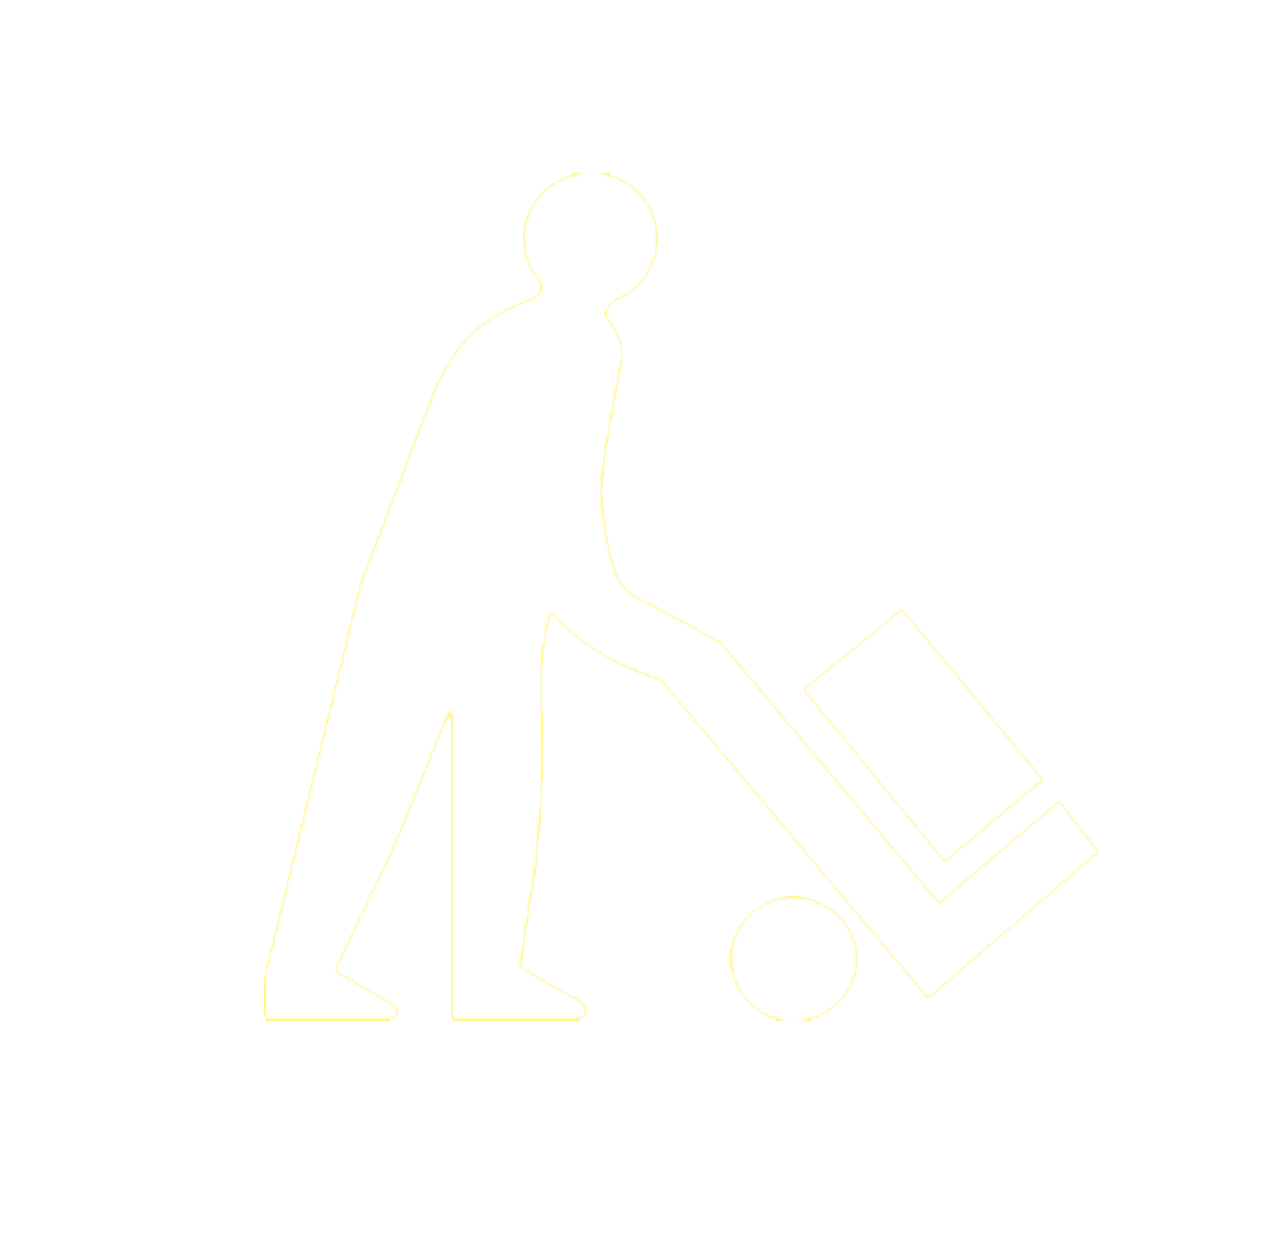
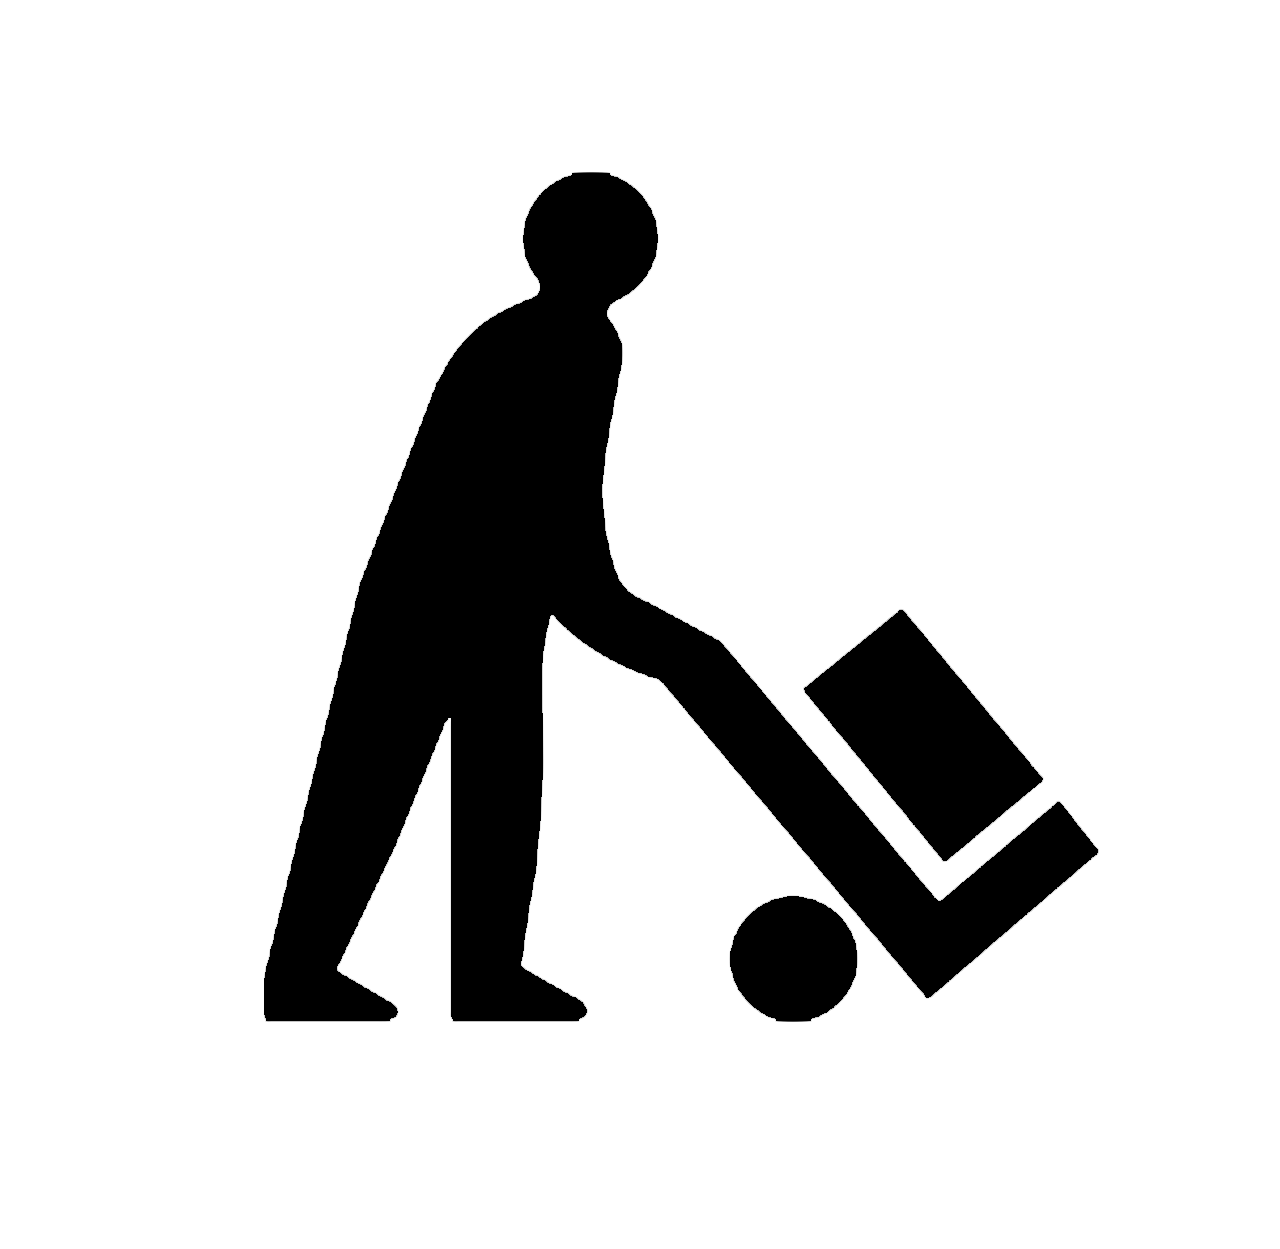
Slider added and offering page updated

Changed region(s): [[0.1875, 0.1249, 0.875, 0.8431]]

diff --git a/html/css/offer.css b/html/css/offer.css
@@ -1,47 +1,61 @@
-.how-it-works-container {
-    width: 18%;
-    float: left;
-    margin: 1%;
+.offering-container {
+    position: relative;
     background: #e0e0e0;
     box-shadow: none;
 }
 
-.work-icon {
-    text-align: center;
-    font-size: 40px;
+.offering-icon img {
+    width: 100%;
 }
 
-.work-title {
+.offering-title {
     text-align: center;
+    color: #000;
+    margin-bottom: 25px;
 }
 
-.work-description {
+.offering-description {
     display: none;
 }
 
+.offering-icon {
+    padding: 10px;
+    margin: 25px;
+    margin-bottom: 0px;
+}
+.offering-icon.yellow-icon{
+    display: none;
+}
+.offering-container:hover .offering-icon.yellow-icon{
+    display: block;
+}
+.offering-container:hover .offering-icon.white-icon{
+    display: none;
+}
 
-.how-it-works-container:hover {
+.offering-container.active .offering-icon.yellow-icon{
+    display: none !important;
+}
+.offering-container.active .offering-icon.white-icon{
+    display: block !important;
+}
+
+.offering-container:hover {
     background: #000 !important;
     cursor: pointer;
     -webkit-box-shadow: 0 2px 2px 0 rgba(0,0,0,0.14), 0 1px 5px 0 rgba(0,0,0,0.12), 0 3px 1px -2px rgba(0,0,0,0.2);
     box-shadow: 0 2px 2px 0 rgba(0,0,0,0.14), 0 1px 5px 0 rgba(0,0,0,0.12), 0 3px 1px -2px rgba(0,0,0,0.2);
 }
-.how-it-works-container:hover .work-icon{
-	color:#feec00;
+
+.offering-container:hover .offering-title{
+    color:#fff;
 }
-.how-it-works-container:hover .work-title{
-	color:#fff;
-}
-.how-it-works-container.active .work-icon{
-	color:#000 !important;
-}
-.how-it-works-container.active .work-title{
-	color:#000 !important;
+.offering-container.active .offering-title{
+    color:#000;
 }
 
-.how-it-works-container.active{
-	background: #fff !important;
-    cursor: pointer;
+.offering-container.active {
+    background: #fff !important;
     -webkit-box-shadow: 0 2px 2px 0 rgba(0,0,0,0.14), 0 1px 5px 0 rgba(0,0,0,0.12), 0 3px 1px -2px rgba(0,0,0,0.2);
     box-shadow: 0 2px 2px 0 rgba(0,0,0,0.14), 0 1px 5px 0 rgba(0,0,0,0.12), 0 3px 1px -2px rgba(0,0,0,0.2);
 }
@@ -53,15 +67,24 @@ div#descriptionContainer {
     -webkit-box-shadow: 0 2px 2px 0 rgba(0,0,0,0.14), 0 1px 5px 0 rgba(0,0,0,0.12), 0 3px 1px -2px rgba(0,0,0,0.2);
     box-shadow: 0 2px 2px 0 rgba(0,0,0,0.14), 0 1px 5px 0 rgba(0,0,0,0.12), 0 3px 1px -2px rgba(0,0,0,0.2);
 }
-#descriptionContainer{
+.offering-container {
+    min-height: 416px;
+}
+
+.offering-container {
+    min-height: 245px !important;
+}
+
+div#descriptionContainer {
     display: none;
-    margin: 1% !important;
-    margin-top: -15px !important;
+    position: absolute;
+    top: 245px;
+    margin: 0px !important;
 }
 
 div#descriptionTitle {
     font-size: 22px;
-    font-weight: 300;
+    font-weight: bold;
     text-transform: uppercase;
 }
 
@@ -73,4 +96,6 @@ div#descriptionText {
     margin-top: 12px;
     color: #6b6a6a;
 }
+
+
 

diff --git a/html/js/offer.js b/html/js/offer.js
@@ -1,0 +1,10 @@
+$(function(){
+	$(".offering-container").on("click",function(){
+		$(".offering-container").removeClass("active");
+		$(this).addClass("active");
+
+		$("#descriptionContainer #descriptionText").html($(".offering-description",this).html());
+		$("#descriptionContainer #descriptionTitle").html($(".offering-title",this).html());
+		$("#descriptionContainer").show();
+	})
+});

diff --git a/application/views/offer.php b/application/views/offer.php
@@ -3,47 +3,58 @@
 	<div class="c-title">What we Offer</div>
 	<p class="c-paragraph">Labouradda is a unique platform that helps in connecting a Consumer to a labourer for Domestic or Commercial use. Just give a missed call at 088 088 088 88 and get a call back for cost and estimation. Explain your requirement to the labourer, then sit back and relax!</p>
 
-	<div class="row">
-		<div class="col m3 s12">
-			<div class="offer-box card-panel white hoverable">
-                <center>
-                    <img src="<?php echo base_url(); ?>html/images/cleaning and maintenance.png" class="img-responsive offering-image">
-                    <!-- <img src="images/about-01.jpg" class="img-responsive" alt=".."> -->
-                    <h4>CLEANING AND MAINTENANCE</h4>
-                    <div class="border"></div></center>
-                    <!-- <p>Duis aute irure dolor in reprehen derit in voluptate velit essecillum dolore eu fugiat nulla pariatur. Lorem reprehenderit</p> -->
-            </div>
-		</div>
 
-		<div class="col m3 s12">
-      <div class="offer-box card-panel white hoverable">
-                    <img src="<?php echo base_url(); ?>html/images/loader unloader.png" class="img-responsive offering-image">
-                    <!-- <img src="images/about-01.jpg" class="img-responsive" alt=".."> -->
-                    <h4>LOADER AND UNLOADER</h4>
-                    <div class="border"></div>
-                    <!-- <p>Duis aute irure dolor in reprehen derit in voluptate velit essecillum dolore eu fugiat nulla pariatur. Lorem reprehenderit</p> -->
-            </div>
+
+    <div class="row" style="position: relative;    margin-bottom: 200px;">
+        <div class="offering-container col s12 m2 card-panel">
+            <div class="offering-icon white-icon"><img src="<?php echo base_url(); ?>html/images/cleaning%20and%20maintenance.png" /></div>
+            <div class="offering-icon yellow-icon"><img src="<?php echo base_url(); ?>html/images/cleaning%20and%20maintenance-yellow.png" /></div>
+            <div class="offering-title">Cleaning & Maintenance</div>
+            <div class="offering-description">The work that you can get done through labours are - Labours for cleaning by shifting furniture’s, Labours for Cleaning fixtures and fans, Labour for cleaning doors & windows, Labour for cleaning cabinets and shelves, Labour for Loft cleaning, Labour for overhead tank cleaning, labour for Garden cleaning .</div>
+        </div>
+        <div class="offering-container col s12 m2 card-panel">
+            <div class="offering-icon white-icon"><img src="<?php echo base_url(); ?>html/images/Domestic%20Helpers.png" /></div>
+            <div class="offering-icon yellow-icon"><img src="<?php echo base_url(); ?>html/images/Domestic%20Helpers-yellow.png" /></div>
+            <div class="offering-title">Domestic Helpers</div>
+            <div class="offering-description">You get substitute for maids, replacement of maids, substitute for drivers, substitute for parents care in old age, helpers for home or small party & get together, substitute for day guard, night guard, substitute for gardeners, substitute for washing and mopping entire floors and roof tops & car cleaners. </div>
+        </div>
+        <div class="offering-container col s12 m2 card-panel">
+            <div class="offering-icon white-icon"><img src="<?php echo base_url(); ?>html/images/Repair%20&%20Maintenance.png" /></div>
+            <div class="offering-icon yellow-icon"><img src="<?php echo base_url(); ?>html/images/Repair%20&%20Maintenance-yellow.png" /></div>
+            <div class="offering-title">Repair & Maintenance</div>
+            <div class="offering-description">You get labours as solution for quick fixes from plumbers, carpenters, painters, electricians, mason (mistri), fabricator, car repair and maintenance, car tyre repair & maintenance. AC Repair & Maintenance, Cooler repair and maintenance.  </div>
+        </div>
+        <div class="offering-container col s12 m2 card-panel">
+            <div class="offering-icon white-icon"><img src="<?php echo base_url(); ?>html/images/loader%20unloader.png" /></div>
+            <div class="offering-icon yellow-icon"><img src="<?php echo base_url(); ?>html/images/loader%20unloader-yellow.png" /></div>
+            <div class="offering-title">Loaders & Unloaders</div>
+            <div class="offering-description">(1st) You get choice of Three wheelers & Four wheelers with or without labours (2nd) You get labours for packing & unpacking, loading and unloading, taking up the staircase if heavy and large furniture for lift not available or not allowed. Since all the Loaders and un-loaders booked are adhaar card holders you can build a trust on them by cross checking identity of the labour through our call center by giving your booking ID and labours unique ID.</div>
+        </div>
+        <div class="offering-container col s12 m2 card-panel">
+            <div class="offering-icon white-icon"><img src="<?php echo base_url(); ?>html/images/MorethanoneLabourformorethanoneday.png" /></div>
+            <div class="offering-icon yellow-icon"><img src="<?php echo base_url(); ?>html/images/MorethanoneLabourformorethanoneday-yellow.png" /></div>
+            <div class="offering-title">More than one Labour for more than one day</div>
+            <div class="offering-description">You can place a request for more than one labour for your requirement for more than one day. Labouradda will send you a list of labours with their unique ID a day in advance.  Since all the Loaders and un-loaders booked are adhaar card holders you can build a trust on them by cross checking identity of the labour through our call center by giving your booking ID and the unique ID of the labour.
+        </div>
+        </div>
+        <div class="offering-container col s12 m2 card-panel">
+            <div class="offering-icon white-icon"><img src="<?php echo base_url(); ?>html/images/tatkaal%20seva.png" /></div>
+            <div class="offering-icon yellow-icon"><img src="<?php echo base_url(); ?>html/images/tatkaal%20seva-yellow.png" /></div>
+            <div class="offering-title">Tatkaal labour</div>
+            <div class="offering-description">Labouradda connects you over the phone with a nearest available Labour for a Tatkaal need subject to availability at a walking distance. The cost estimate of all Tatkaal labour requirement of labour will be determined by the labour themselves by understanding the work over the phone or vide a SMS and dealings can be done on mutual consent of consumer and labourer directly at mutually agreed rates.</div>
+        </div>
+
+
+        <div id="descriptionContainer">
+          <div id="descriptionTitle"></div>
+          <div id="descriptionText"></div>
+        </div>
+
     </div>
 
-    <div class="col m3 s12">
-      <div class="offer-box card-panel white hoverable">
-                    <img src="<?php echo base_url(); ?>html/images/contractors and builders.png" class="img-responsive offering-image">
-                    <!-- <img src="images/about-01.jpg" class="img-responsive" alt=".."> -->
-                    <h4>LABOURERS FOR CONTRACTORS</h4>
-                    <div class="border"></div>
-                    <!-- <p>Duis aute irure dolor in reprehen derit in voluptate velit essecillum dolore eu fugiat nulla pariatur. Lorem reprehenderit</p> -->
-            </div>
-    </div>
 
-    <div class="col m3 s12">
-      <div class="offer-box card-panel white hoverable">
-                    <img src="<?php echo base_url(); ?>html/images/tatkaal seva.png" class="img-responsive offering-image">
-                    <!-- <img src="images/about-01.jpg" class="img-responsive" alt=".."> -->
-                    <h4>TATKAAL LABOURER</h4>
-                    <div class="border"></div>
-                    <!-- <p>Duis aute irure dolor in reprehen derit in voluptate velit essecillum dolore eu fugiat nulla pariatur. Lorem reprehenderit</p> -->
-            </div>
-    </div>
-		
-	</div>
+
+
+
+
 </div>	

diff --git a/application/controllers/Offer.php b/application/controllers/Offer.php
@@ -8,10 +8,10 @@ class Offer extends CI_Controller {
 	{		
 		$headerData = array(
 			"pageTitle" => "offer",
-			"stylesheet" => array("dashboard.css")
+			"stylesheet" => array("offer.css")
 		);
 		$footerData = array(
-			"jsFiles" => array("dashboard.js")
+			"jsFiles" => array("dashboard.js","offer.js")
 		);
 		$viewData = array(
 			"viewName" => "Offer",

diff --git a/application/views/home.php b/application/views/home.php
@@ -28,6 +28,9 @@
     <div class="carousel-item amber white-text" href="#three!">
       <img src="<?php echo base_url(); ?>html/images/Main-Banner.png" />
     </div>
+    <div class="carousel-item amber white-text" href="#two!">
+      <img src="<?php echo base_url(); ?>html/images/Main-Banner-2.png" />
+    </div>
 
 </div>
 
